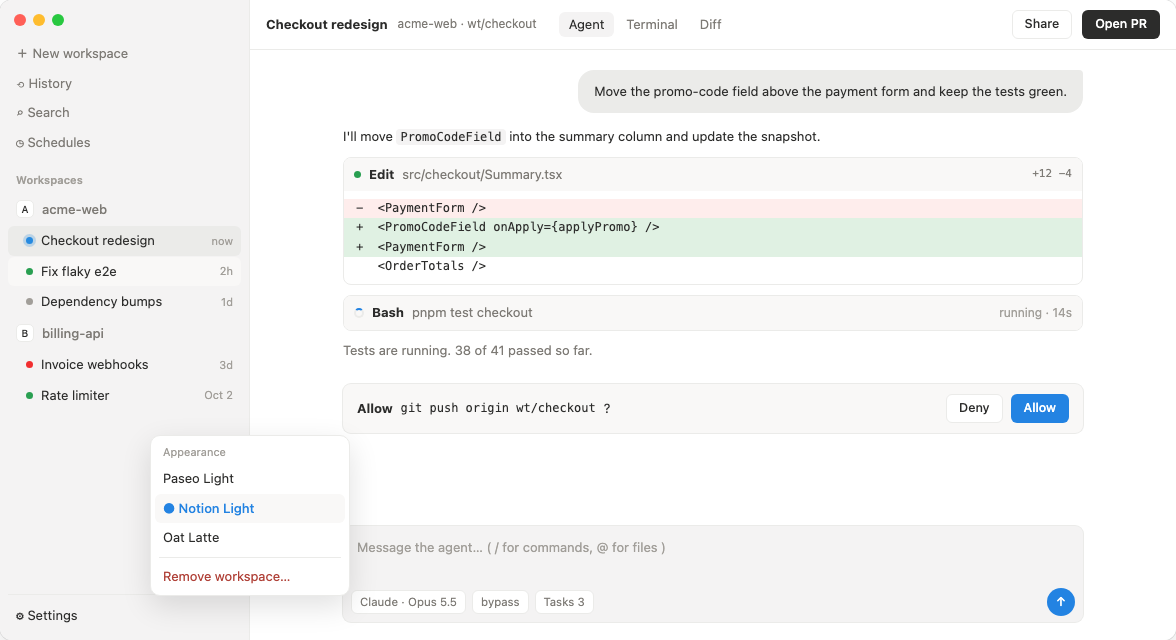
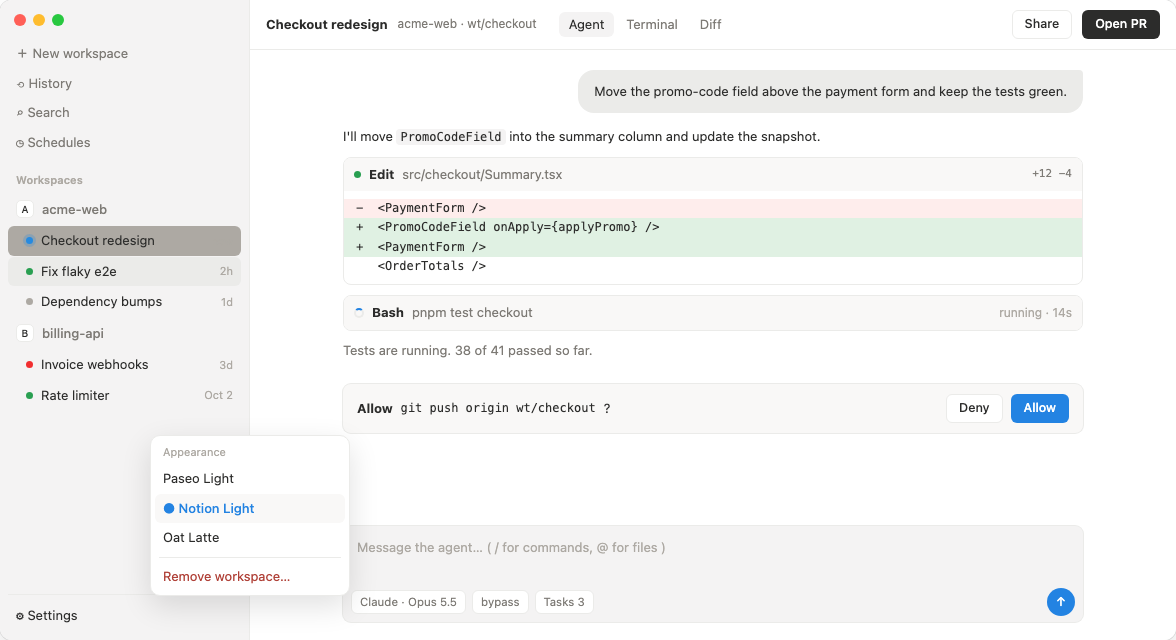
Lighten ring: Paseo 0.13 fills the selected sidebar row with it

Changed region(s): [[0.0, 0.3438, 0.2143, 0.4062]]

diff --git a/index.client.ts b/index.client.ts
@@ -14,7 +14,7 @@ export default function contribute(client: PluginClientContext) {
       border: "#ebebe9", // --cl-palGra90 on white: visible selected row; Paseo also fills user bubbles with it
       accent: "#2383e2", // --c-palUiBlu600: Notion blue
       mutedForeground: "#7d7a75", // --c-texSec
-      ring: "#a19e99", // --c-texTer: extra-muted text, scrollbars, terminal bright black
+      ring: "#ada9a3", // --c-icoTer: extra-muted text, scrollbars; Paseo 0.13 also fills the selected sidebar row with it
     },
   });
   return remove;

diff --git a/README.md b/README.md
@@ -23,6 +23,6 @@ Then pick **Notion Light** under Settings → Appearance.
 | border | `#ebebe9` | `--cl-palGra90` (on white) |
 | accent | `#2383e2` | `--c-palUiBlu600` |
 | mutedForeground | `#7d7a75` | `--c-texSec` |
-| ring | `#a19e99` | `--c-texTer` |
+| ring | `#ada9a3` | `--c-icoTer` |
 
 Unofficial; not affiliated with or endorsed by Notion.
